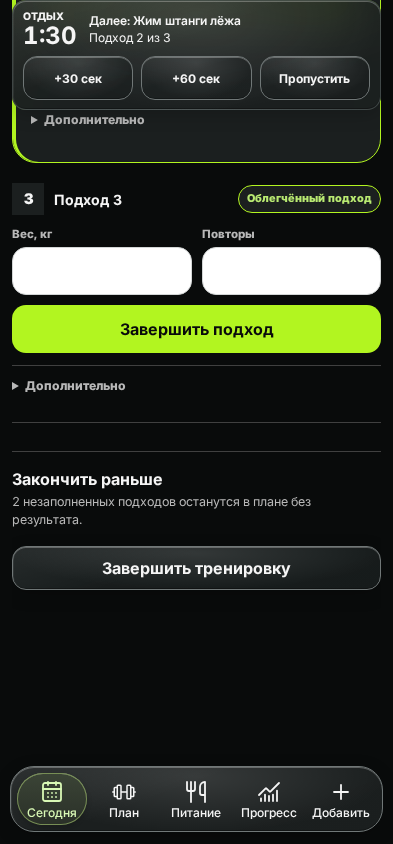
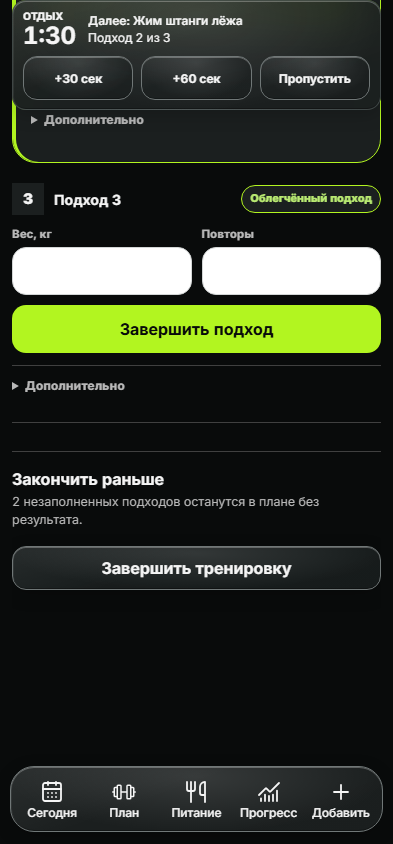
fix(ui): keep dock and toast clear across mobile surfaces

diff --git a/frontend/tests/e2e/tma-smoke.spec.ts b/frontend/tests/e2e/tma-smoke.spec.ts
@@ -13,6 +13,7 @@ import {
 import { installPlatformApi } from './fixtures/platform-api';
 import { makeProgressReportFixture } from '../fixtures/progress-report';
 import { namedArticle, notificationArticle } from './fixtures/locators';
+import { expectSelectedChoice } from './fixtures/selected-state';
 
 const todayStates = [
   { name: 'planned', options: { workoutStatus: 'planned' as const }, action: 'Начать тренировку' },
@@ -1574,10 +1575,7 @@ test('workout adaptation keeps preview, cancel, apply and conflict recovery in M
   );
   await expect(apply).toHaveCSS('background-color', 'rgb(178, 245, 32)');
   await expect(apply).toHaveCSS('border-radius', '14px');
-  await expect(mobilePage.getByRole('button', { name: '20 мин' })).toHaveCSS(
-    'border-top-color',
-    'rgb(178, 245, 32)',
-  );
+  await expectSelectedChoice(mobilePage.getByRole('button', { name: '20 мин' }));
   await mobilePage.locator('.adaptation-preview').scrollIntoViewIfNeeded();
   await mobilePage.screenshot({
     path: '../.artifacts/screenshots/task-58/desktop-1440-light-preview.png',
@@ -1950,7 +1948,9 @@ test('active workout starts, logs offline and resumes once after reconnect and r
     path: '../.artifacts/screenshots/task-72/mock-tma-390x844-dark-active-workout.png',
   });
   await tmaPage.getByRole('button', { name: 'Завершить: Приседания, подход 1' }).click();
-  await expect(tmaPage.getByText('Сохранено на устройстве')).toBeVisible();
+  await expect(
+    tmaPage.getByRole('alert').getByText('Сохранено на устройстве', { exact: true }),
+  ).toBeVisible();
   expect((await tma.state()).haptics.notifications).toContain('success');
 
   api.setOffline(false);
@@ -2027,7 +2027,9 @@ test('progression guidance applies a configured step once, stays optional and ma
   await tmaGuidance.getByRole('button', { name: 'Применить 42,5 кг' }).dblclick();
   const weight = tmaPage.getByRole('spinbutton', { name: 'Вес, Приседания, подход 1' });
   await expect(weight).toHaveValue('42.5');
-  await expect(tmaPage.getByText('Сохранено на устройстве')).toBeVisible();
+  await expect(
+    tmaPage.getByRole('alert').getByText('Сохранено на устройстве', { exact: true }),
+  ).toBeVisible();
 
   api.setOffline(false);
   await setNetworkOffline(tmaPage, false);
@@ -2670,9 +2672,6 @@ test('manual nutrition target history screenshots cover all responsive surfaces 
         return color;
       };
       const save = document.querySelector<HTMLElement>('.nutrition-target-save');
-      const activeMode = document.querySelector<HTMLElement>(
-        '.nutrition-target-mode > button.is-active',
-      );
       const note = document.querySelector<HTMLElement>('.nutrition-target-note');
       const disclosureIcons = Array.from(
         document.querySelectorAll<HTMLElement>('.nutrition-target-history__list .disclosure-icon'),
@@ -2682,7 +2681,6 @@ test('manual nutrition target history screenshots cover all responsive surfaces 
         onLime: tokenColor('--v2-on-lime'),
         saveBackground: save ? getComputedStyle(save).backgroundColor : null,
         saveColor: save ? getComputedStyle(save).color : null,
-        activeModeShadow: activeMode ? getComputedStyle(activeMode).boxShadow : null,
         noteBorder: note ? getComputedStyle(note).borderLeftColor : null,
         disclosureIcons: disclosureIcons.map((icon) => {
           const rect = icon.getBoundingClientRect();
@@ -2696,7 +2694,7 @@ test('manual nutrition target history screenshots cover all responsive surfaces 
     });
     expect(brandContract.saveBackground).toBe(brandContract.lime);
     expect(brandContract.saveColor).toBe(brandContract.onLime);
-    expect(brandContract.activeModeShadow).toContain(brandContract.lime);
+    await expectSelectedChoice(page.locator('.nutrition-target-mode > button.is-active'));
     expect(brandContract.noteBorder).toBe(brandContract.lime);
     expect(brandContract.disclosureIcons.length).toBeGreaterThan(0);
     expect(

diff --git a/frontend/tests/e2e/avatar-settings.spec.ts b/frontend/tests/e2e/avatar-settings.spec.ts
@@ -3,6 +3,7 @@
 import { expect, test, type Browser, type Page } from '@playwright/test';
 import { installTelegramHarness, TelegramHarness } from './fixtures/mobile-tma';
 import { installPlatformApi, type PlatformApiController } from './fixtures/platform-api';
+import { expectSelectedChoice } from './fixtures/selected-state';
 
 const avatarFile = {
   name: 'new-avatar.png',
@@ -233,18 +234,7 @@ test('light mobile keeps avatar actions outlined and current account boundary li
   });
   await expect(accountPanel).toBeVisible();
   await expect(currentProfile).toBeVisible();
-  const boundary = await currentProfile.evaluate((element) => {
-    const probe = document.createElement('span');
-    probe.style.color = 'var(--v2-lime)';
-    document.body.append(probe);
-    const result = {
-      boxShadow: getComputedStyle(element).boxShadow,
-      lime: getComputedStyle(probe).color,
-    };
-    probe.remove();
-    return result;
-  });
-  expect(boundary.boxShadow).toContain(boundary.lime);
+  await expectSelectedChoice(currentProfile);
   await accountPage.screenshot({
     path: '../.artifacts/screenshots/task-110B/mobile-light-account-boundary.png',
     fullPage: false,

diff --git a/frontend/src/styles/design-v2.css b/frontend/src/styles/design-v2.css
@@ -4623,7 +4623,10 @@ body.public-shell-mode.public-shell-mode:has(.auth-public-shell--design-v2) {
   }
 
   body:has(.app-shell--design-v2 #appBottomNav) .toast:not(.hidden) {
-    bottom: calc(82px + max(8px, var(--yfc-layout-safe-bottom)));
+    bottom: calc(
+      var(--app-bottom-nav-height) + 12px + var(--yfc-layout-safe-bottom) +
+        var(--yfc-viewport-bottom, 0px)
+    );
   }
 
   .app-shell--design-v2 .app-bottom-nav {

diff --git a/frontend/src/styles/ux-ia-redesign.css b/frontend/src/styles/ux-ia-redesign.css
@@ -1475,7 +1475,8 @@
     padding: 6px;
   }
 
-  :where(.app-shell--design-v2:has(.app-bottom-nav__quick-add) .app-bottom-nav__primary)
+  .app-shell--design-v2:has(.app-bottom-nav__quick-add)
+    .app-bottom-nav__primary
     .app-bottom-nav__btn {
     min-width: 0;
     min-height: 52px;
